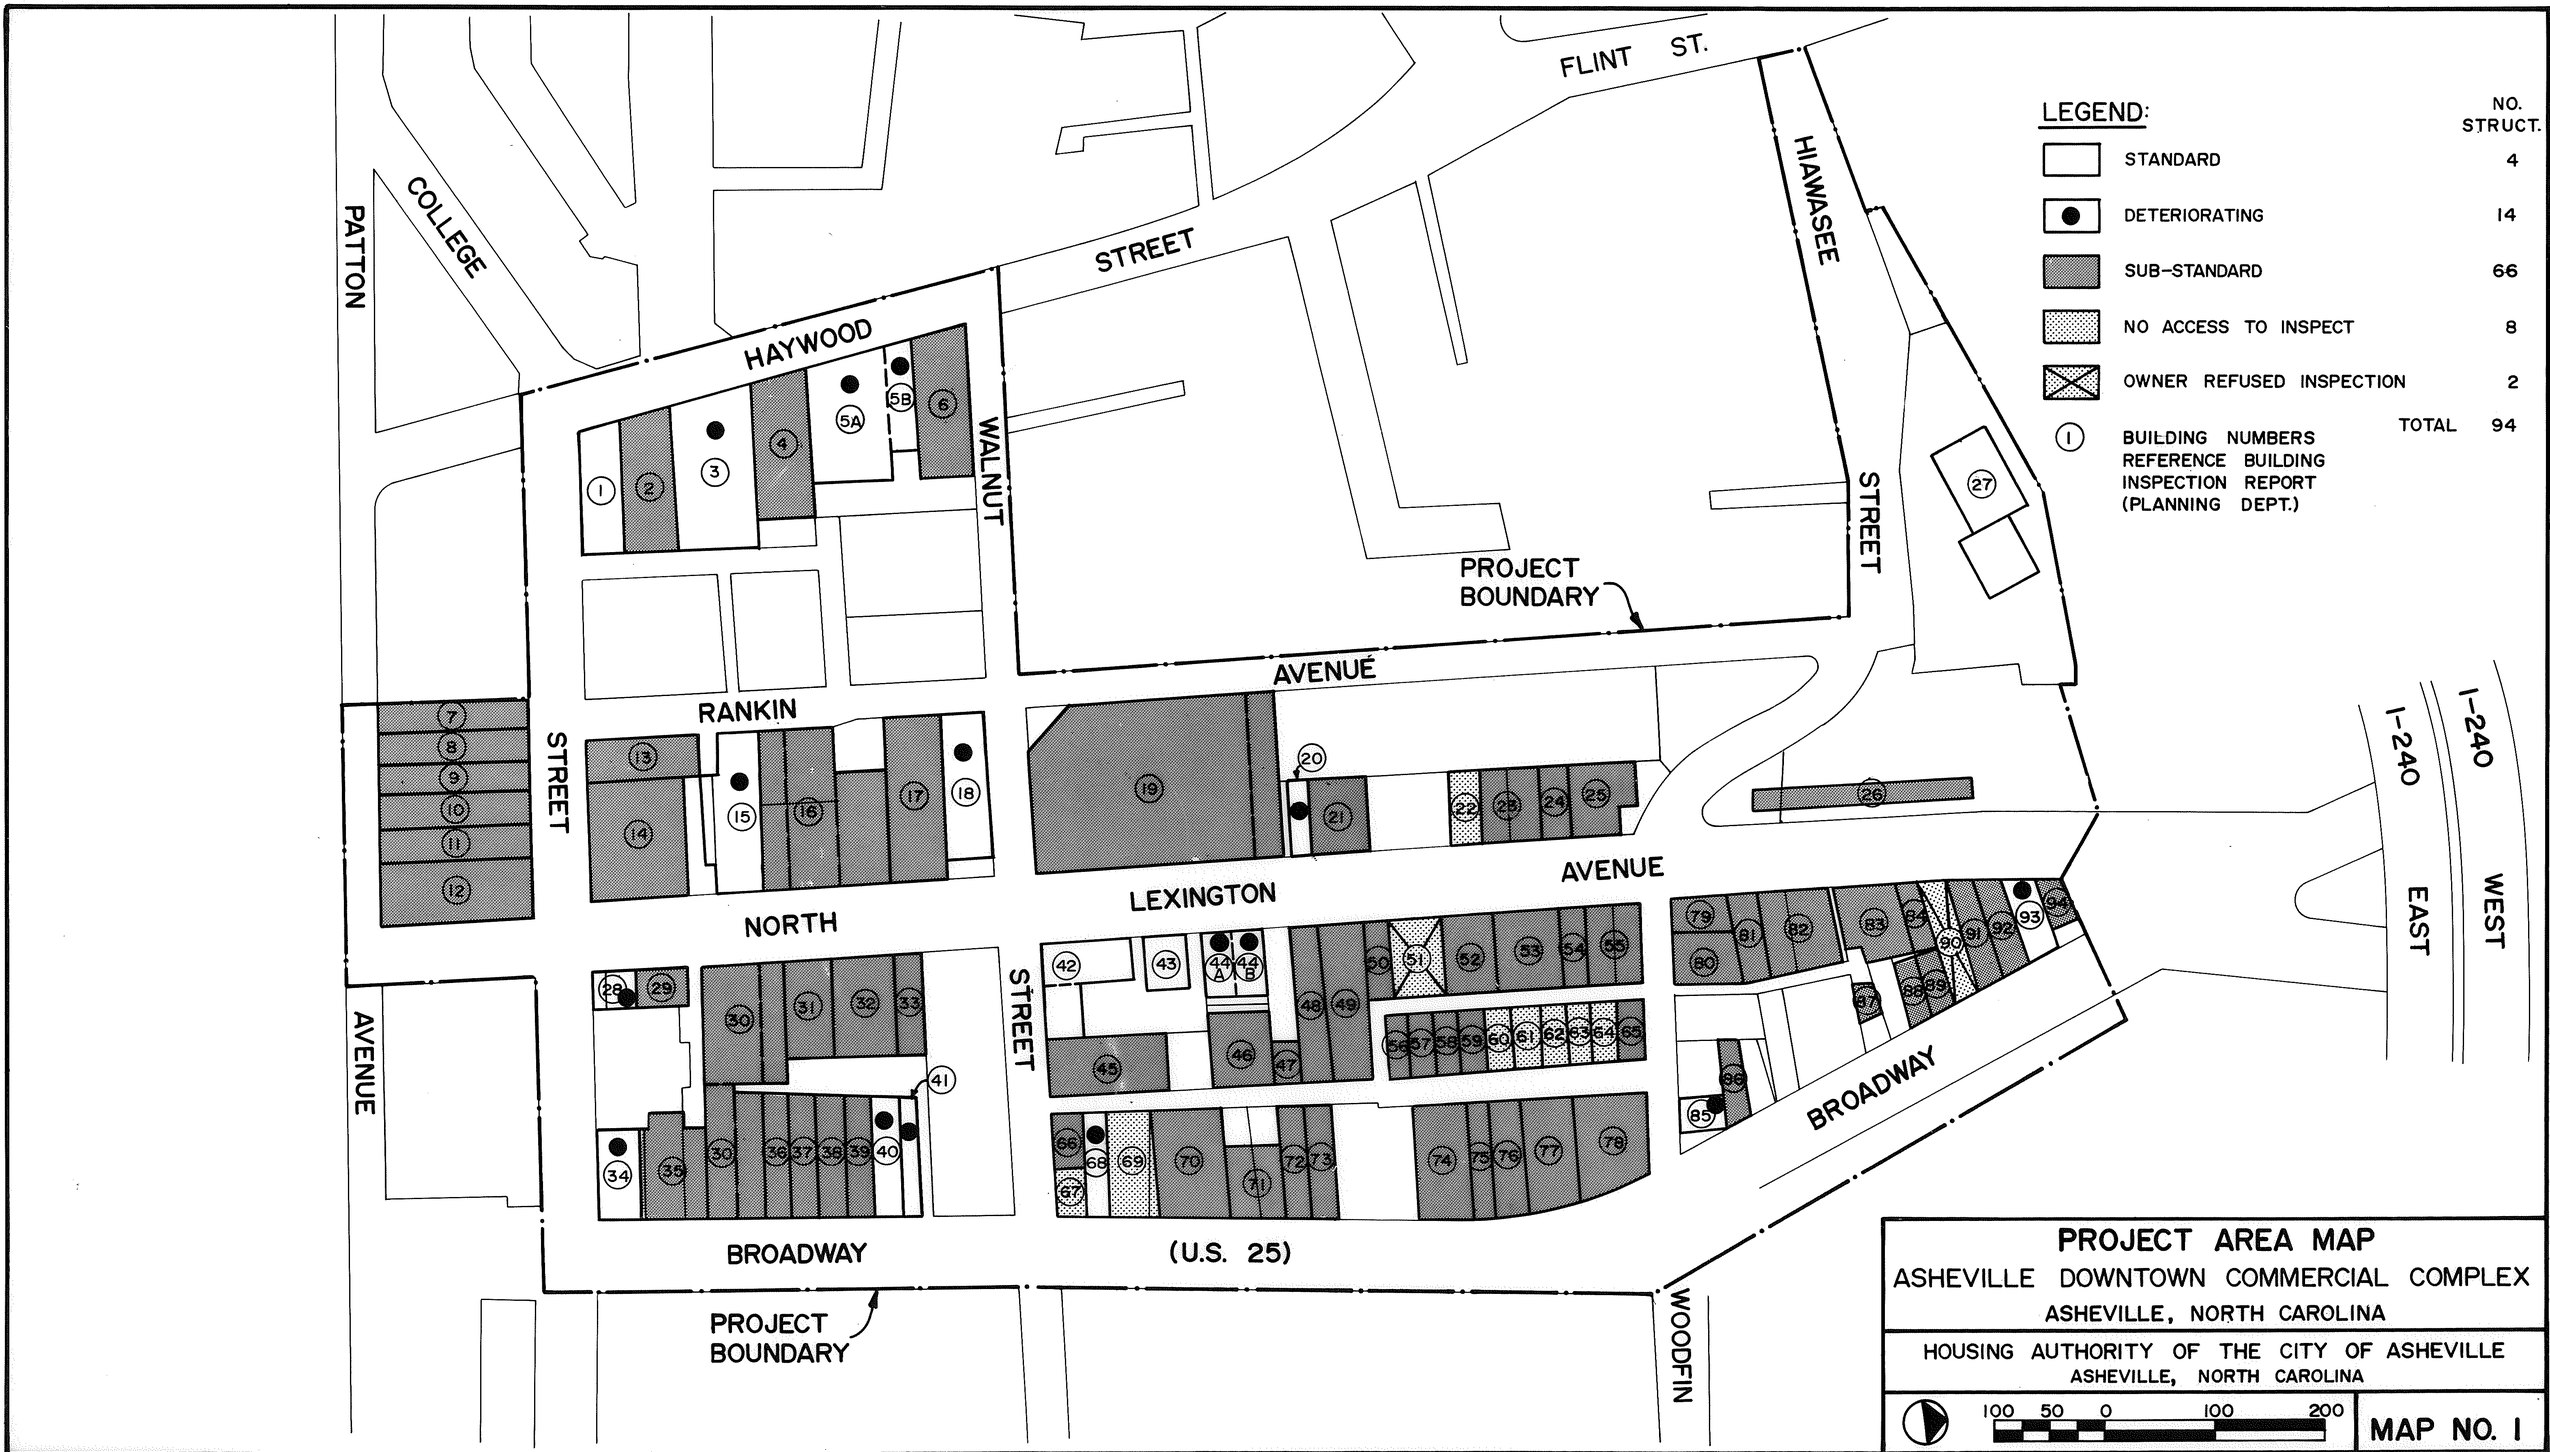
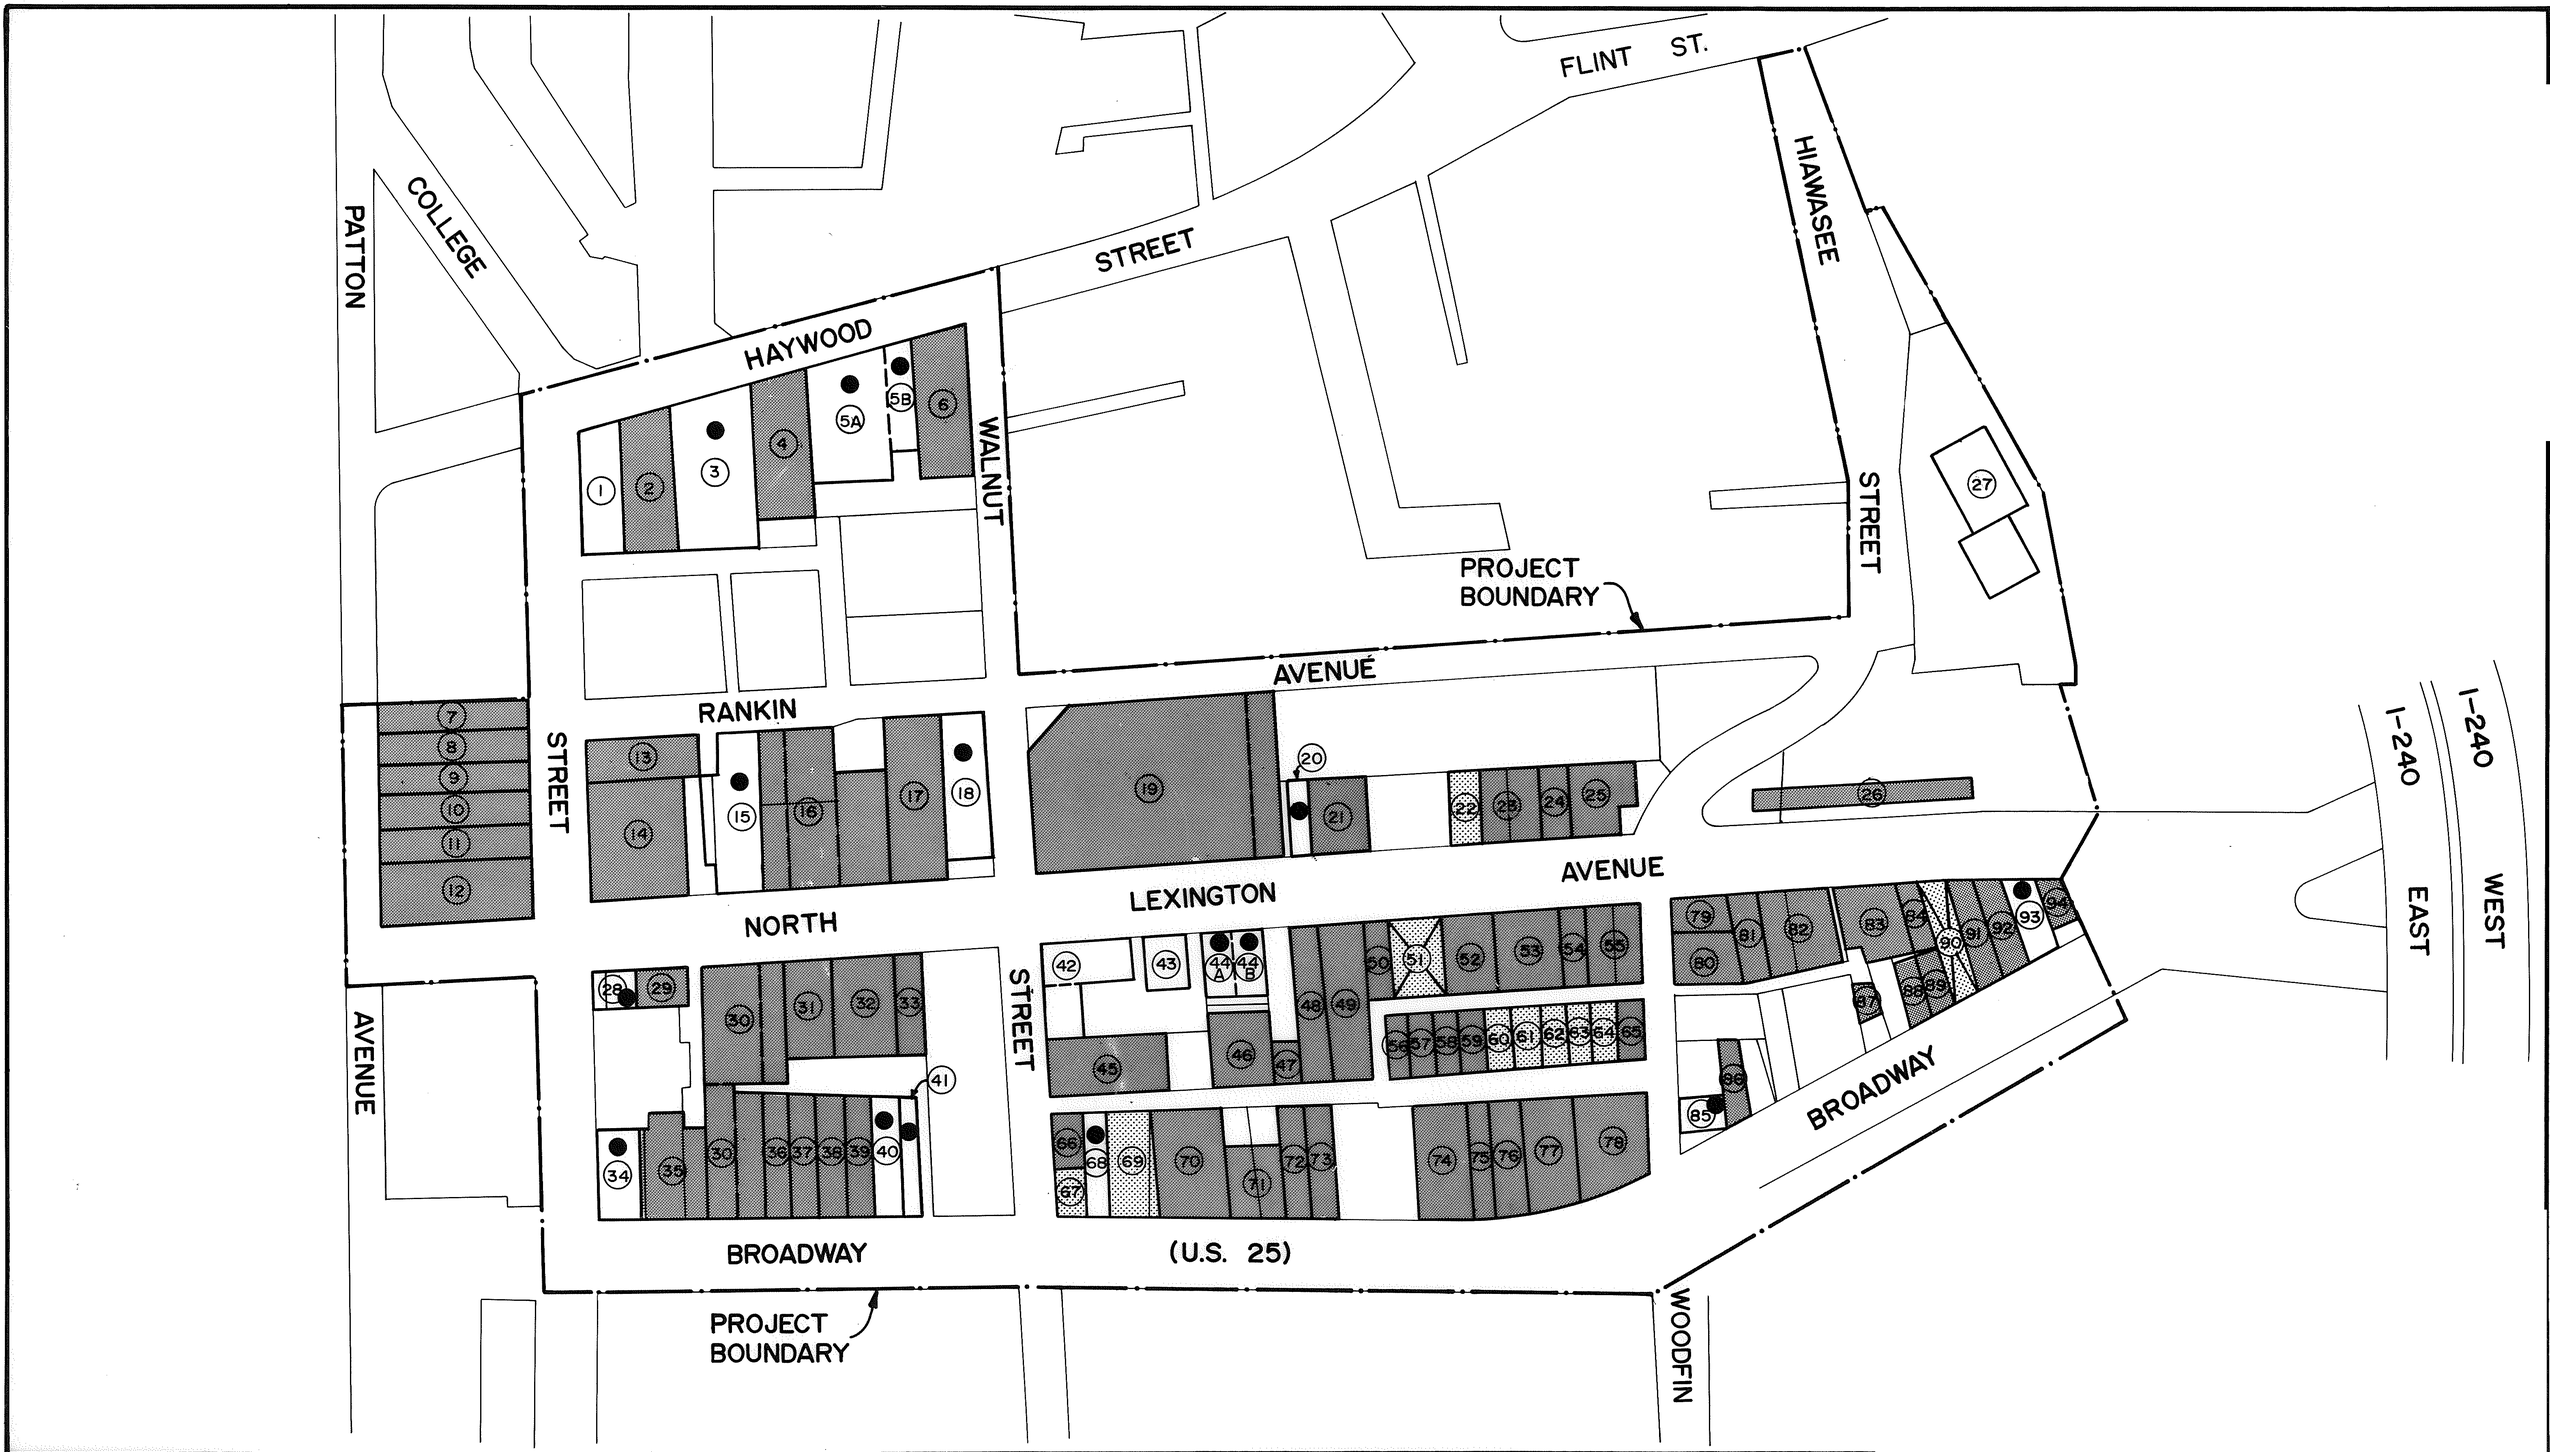
remove legends from maps

diff --git a/DowntownMall/Assets/toggle.cs b/DowntownMall/Assets/toggle.cs
@@ -1,0 +1,15 @@
+using UnityEngine;
+using System.Collections;
+
+public class toggle : MonoBehaviour {
+
+	// Use this for initialization
+	void Start () {
+	
+	}
+	
+	// Update is called once per frame
+	void Update () {
+	
+	}
+}
